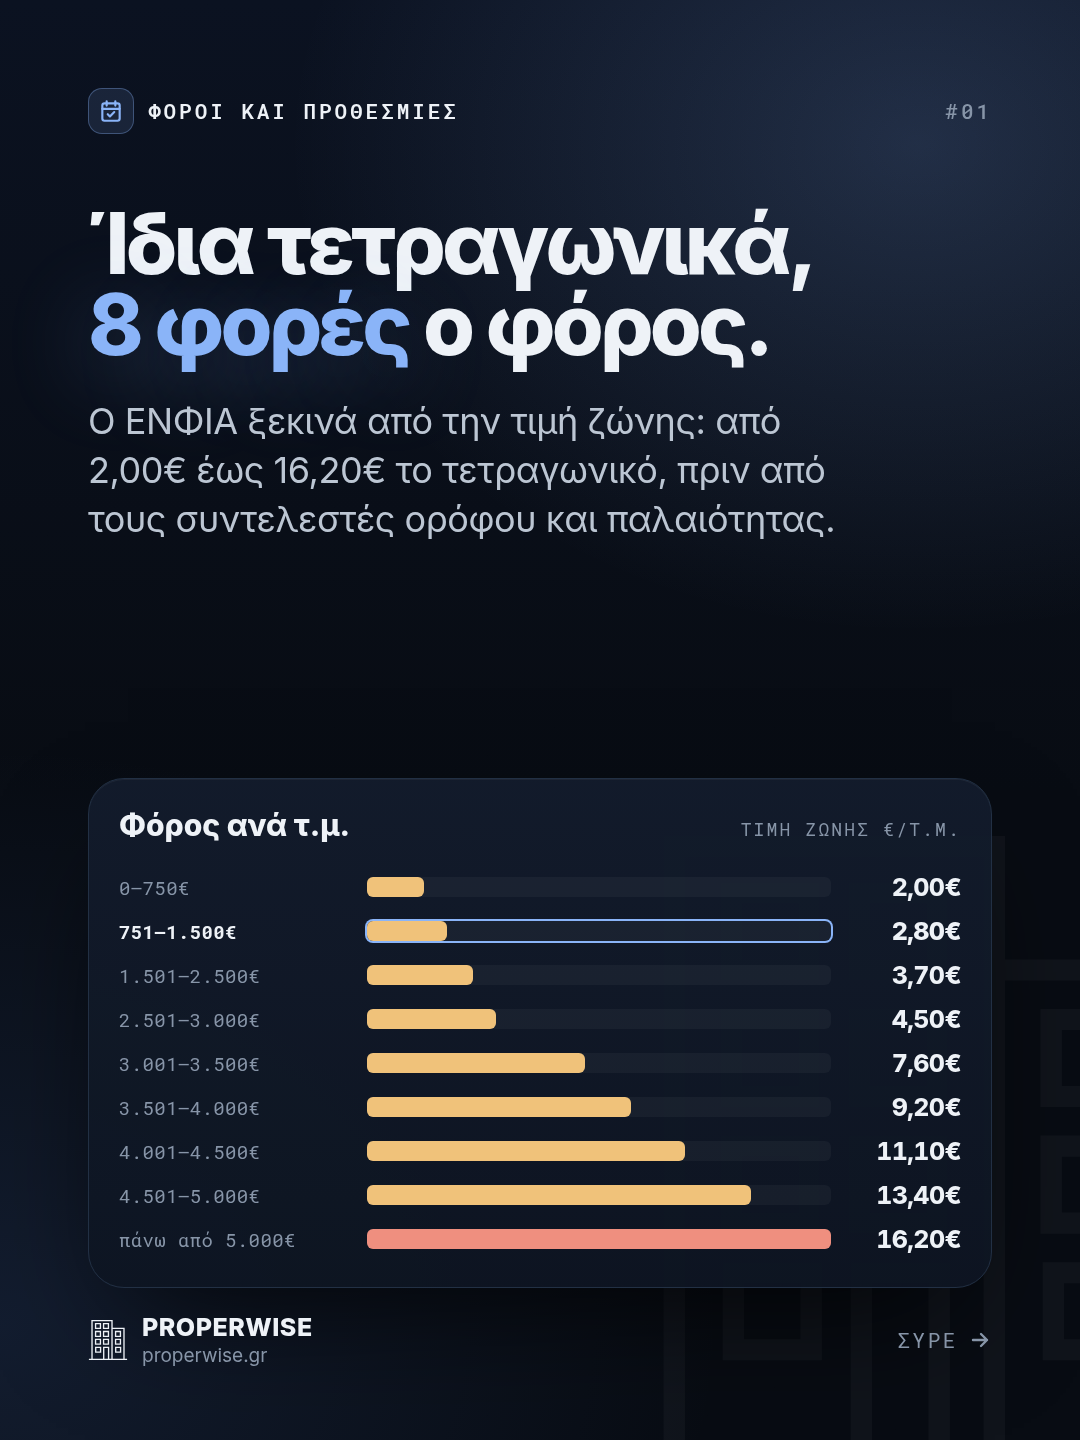
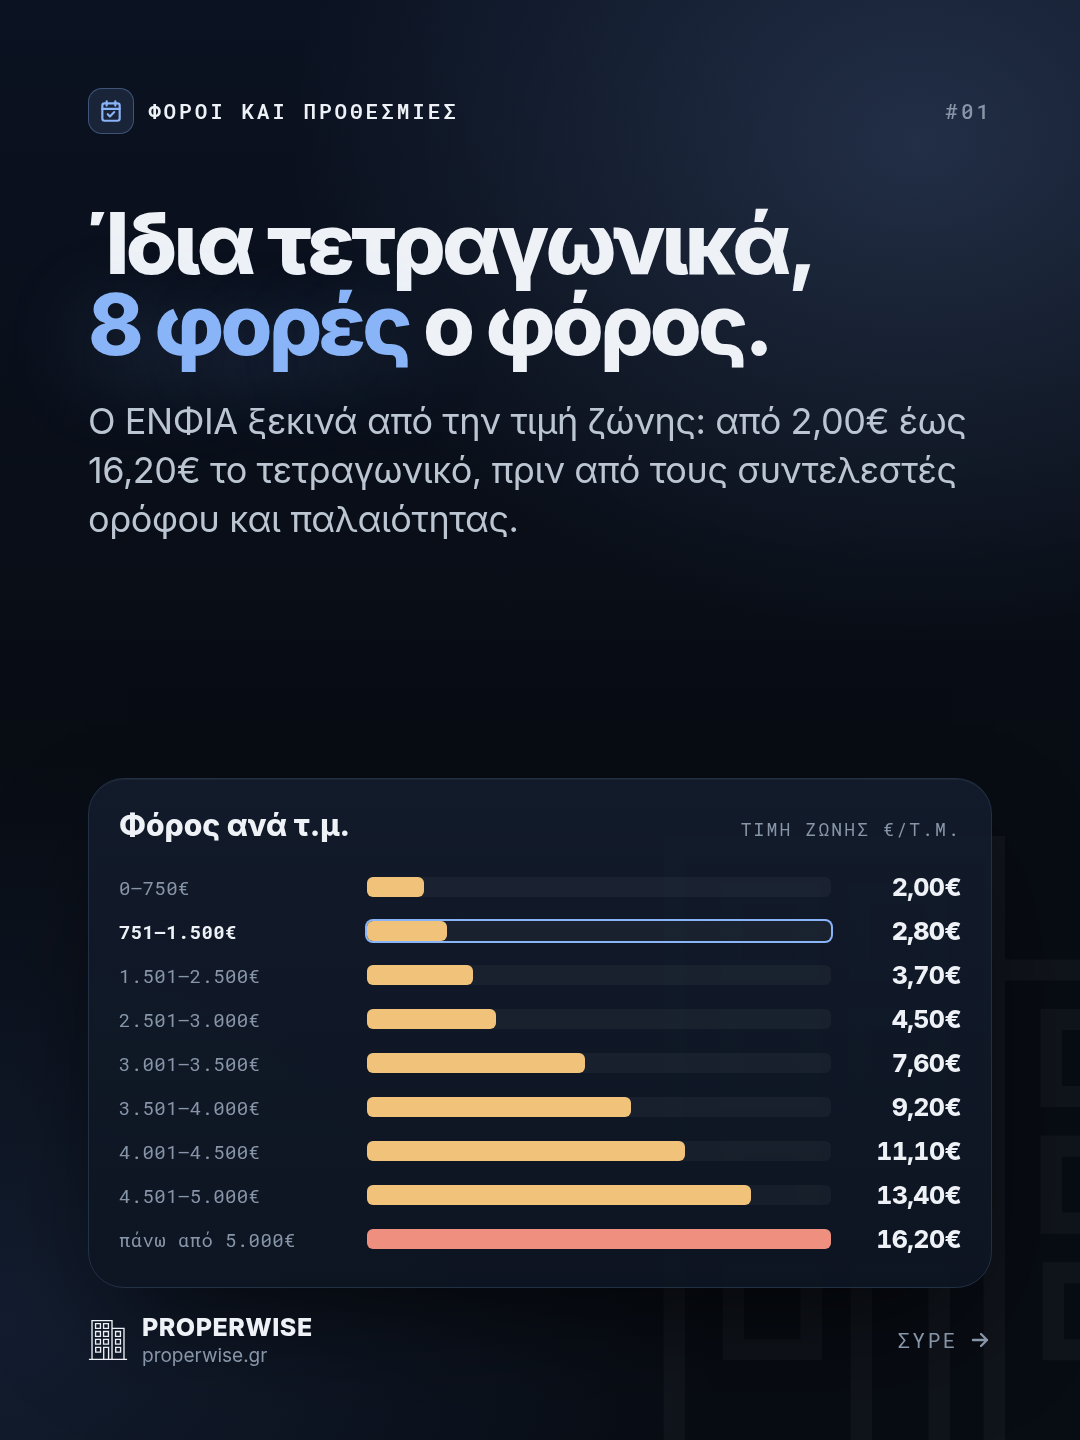
Οι υπότιτλοι των σειρών πιάνουν όλο το πλάτος
Με text-wrap: balance ο υπότιτλος στένευε σε στήλη πιο κοντή από τον τίτλο
και τις κάρτες, όπως έδειξε ο ιδιοκτήτης στο καρέ του ΕΝΦΙΑ. Τώρα πιάνει όλο
το πλάτος και το text-wrap: pretty φυλά μόνο την τελευταία γραμμή από
μοναχική λέξη. Ο έλεγχος «υπότιτλος ως τρεις γραμμές» μένει.

Claude-Session: https://claude.ai/code/session_01FciDzM5oCHC6crgCfFdPE1

Changed region(s): [[0.0917, 0.2812, 0.8861, 0.375]]

diff --git a/scripts/marketing/seires.ts b/scripts/marketing/seires.ts
@@ -501,7 +501,7 @@ function foroi01(): Episode {
       sticker: `Σύνδεσμος προς ${utm(link.url.slice(SITE.length), camp)} · κείμενο «Υπολόγισε τον ΕΝΦΙΑ»`,
       body: f => `<div class="act" style="display:flex;flex-direction:column;flex:1">
         <h2 style="margin-top:${f === 'story' ? 80 : 70}px">Πόσος είναι<br><span class="acc">ο δικός σου;</span></h2>
-        <p class="lead" style="margin-top:28px">Βάλε τα στοιχεία του ακινήτου σου. Ο&nbsp;υπολογιστής εφαρμόζει και τις μειώσεις του νόμου.</p>
+        <p class="lead" style="margin-top:28px">Ο υπολογιστής βγάζει τον ΕΝΦΙΑ με τα στοιχεία του ακινήτου σου και τις μειώσεις του νόμου.</p>
         ${calcCard(s, '/ypologismos-enfia', [
           ['Τετραγωνικά', `${ENFIA.tm} τ.μ.`], ['Τιμή ζώνης', `${feWhole(Number(ENFIA.zoni))}/τ.μ.`],
           ['Όροφος', ENFIA_FLOOR_LABEL[ENFIA.orofos]], ['Παλαιότητα', ENFIA_AGE_BANDS.find(b => b.key === ENFIA.palaiotita)!.label],

diff --git a/scripts/marketing/seiresKit.ts b/scripts/marketing/seiresKit.ts
@@ -206,7 +206,10 @@ export function shell(f: Format, s: Palette, ep: { no: number }, i: number, n: n
   .acc{color:${s.accent}}
   h1 .acc,h2 .acc,.big .acc{text-shadow:0 18px 90px ${s.accent}55}
   .ok{color:${s.ok}}
-  .lead{color:${s.muted};font-size:${story ? 40 : 36}px;line-height:1.36;letter-spacing:-.012em;text-wrap:balance;max-width:900px}
+  /* ΠΛΗΡΕΣ ΠΛΑΤΟΣ, ΟΧΙ ΖΥΓΙΣΜΕΝΟ. Με text-wrap: balance ο υπότιτλος στένευε σε
+     στήλη πιο κοντή από τον τίτλο και τις κάρτες. Πιάνει όλο το πλάτος και το
+     pretty φυλά μόνο την τελευταία γραμμή από μοναχική λέξη. */
+  .lead{color:${s.muted};font-size:${story ? 40 : 36}px;line-height:1.36;letter-spacing:-.012em;text-wrap:pretty}
   .mono{font-family:'Roboto Mono',monospace;letter-spacing:.08em}
   .num{font-variant-numeric:tabular-nums;letter-spacing:-.025em}
   .src{font-family:'Roboto Mono',monospace;font-size:${story ? 21 : 19}px;letter-spacing:.04em;color:${s.faint};line-height:1.5}
